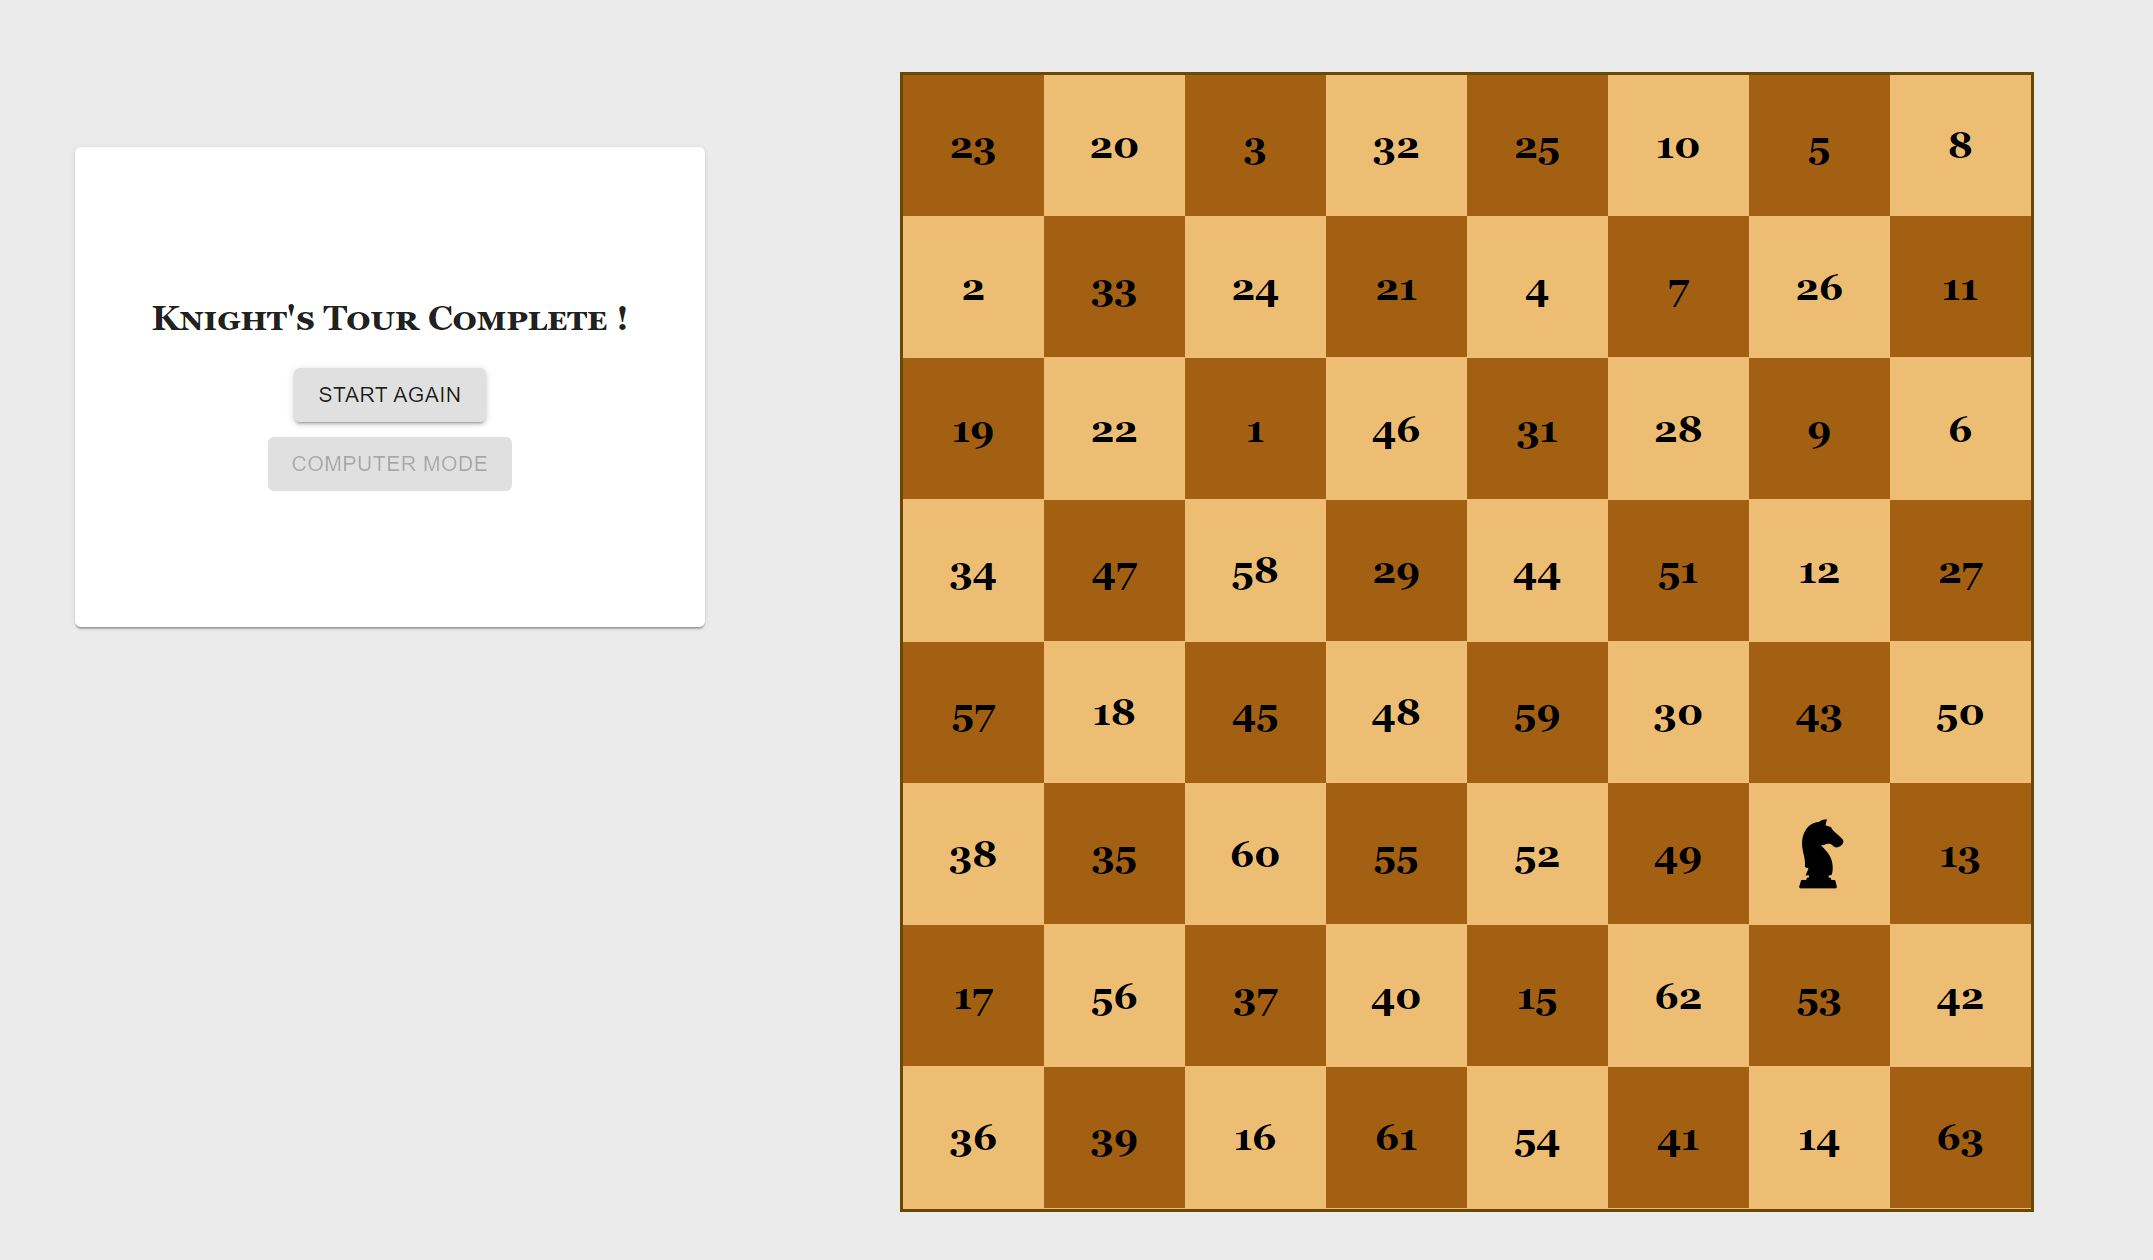
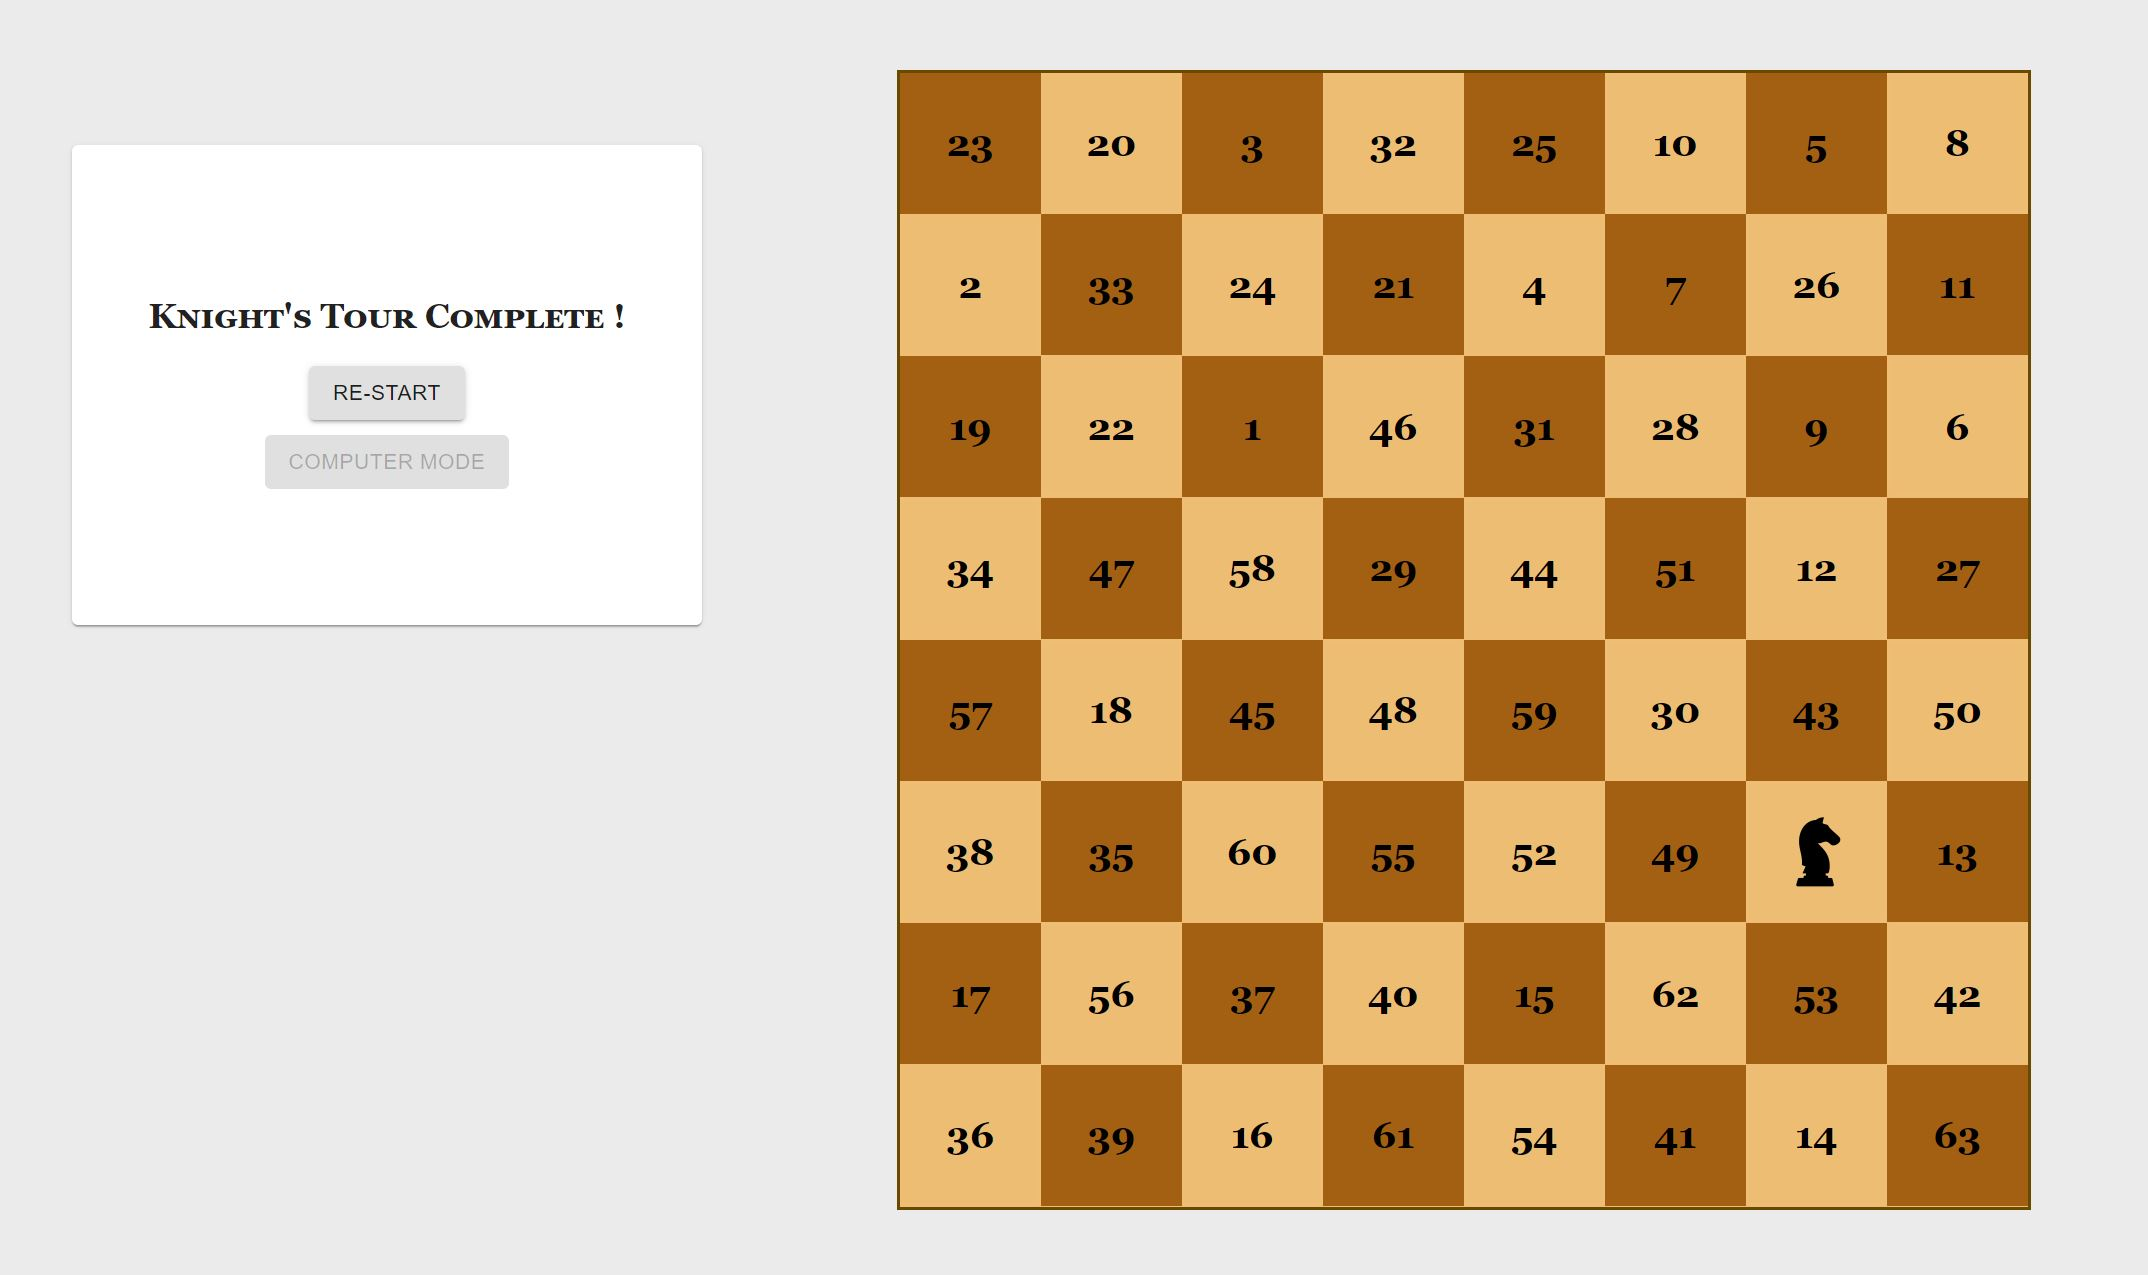
added next button functionality

diff --git a/src/App.js b/src/App.js
@@ -18,26 +18,28 @@ class App extends Component {
       isLoaded: false,
       squares: [],
       currentSquareId: "",
-      knightPathPos: 1
+      knightPathPos: 1,
+      stepMode: false,
+      tour: []
     };
   }
 
   // Function: Checks if the first move is yet to be made
-  // Used by: Square component to make all squares clickable
+  // Used by: Square Props to make all squares clickable
   isFirstMove = () => {
-    return(this.state.currentSquareId == "");
+    return(this.state.currentSquareId === "");
   }
 
   // Function: Checks if a starting square has been selected
   // Used by: Computer Mode Button to toggle disabled state
   isSecondMove = () =>{
-    return(this.state.knightPathPos == 2);
+    return(this.state.knightPathPos === 2);
   }
 
   // Function: Checks if knight is on the square with squareID 
-  // Used by: Square component to display knight image
+  // Used by: Square Props to display knight image
   isCurrentSquare = (squareID) =>{
-    return(squareID == this.state.currentSquareId);
+    return(squareID === this.state.currentSquareId);
   }
 
   // Function: Completes the knight's tour once a starting square is selected
@@ -47,20 +49,14 @@ class App extends Component {
     let visited = new Array(64); 
     for (let i=0; i<64; ++i) visited[i] = 0;
     let tour = getKnightTour(this.state.currentSquareId,path,visited).path;
-    let count = 1;
-    for (var squareID of tour) {
-      if(this.state.currentSquareId != squareID){
-        this.completePath(squareID, count);
-      }
-      count+=1;
-    }
-    this.setState({currentSquareId: tour[63], knightPathPos: 65});
+    this.setCurrentSquare(tour[1]);
+    this.setState({stepMode: true, tour: tour});
   }
 
   // Function: Marks a square as visited, and assigns its position in the tour.
   // Used by: computerMode() to display tour on board
   completePath = (squareID,count) =>{
-    let currentSquare = this.state.squares.find(currentSquare => currentSquare.id == squareID);
+    let currentSquare = this.state.squares.find(currentSquare => currentSquare.id === squareID);
     currentSquare.visited = true;
     currentSquare.pathPos = count;
   }
@@ -74,12 +70,12 @@ class App extends Component {
   // Function: Checks if there are any legal and unvisited moves based on knight's current position
   // Used by: Card component to display trapped message
   anyLegalMoves = () =>{
-    if (this.state.currentSquareId != ""){
+    if (this.state.currentSquareId !== ""){
       let legalMoves = generateLegalMoves(this.state.currentSquareId);
       let foundUnvisited = false;
       for (var move of legalMoves) {
         let moveId = move.x.toString() + move.y.toString();
-        let square = this.state.squares.find(square => square.id == moveId);
+        let square = this.state.squares.find(square => square.id === moveId);
         if (!square.visited){
           foundUnvisited = true;
           break;
@@ -91,15 +87,46 @@ class App extends Component {
     }
   }
 
+  // Function: moves to next square on completed tour
+  // Used by: Next button when clicked
+  handleNext = () =>{
+    let idx = this.state.knightPathPos - 1;
+    if (idx <= 63){
+      this.setCurrentSquare(this.state.tour[idx]);
+    }
+  }
+
+  // Funciton: returns conditionals for sqaure display and clickability
+  // Used by: Square Component
+  squareProps = (squareID) =>{
+    return({"isEnabled": this.isEnabled(), "isInitial" : this.isFirstMove(), "isCurrent": this.isCurrentSquare(squareID)});
+  }
+
+  // Function: checks if legal squares should be cliclkable
+  // Used by: Sqaure Props
+  isEnabled = () =>{
+    return((this.state.currentSquareId === "") || (!this.state.stepMode));
+  }
+
+  // Function: completes the tour on the board all at once
+  // Used by: Skip button when clicked
+  handleSkip = () =>{
+    for (let idx = this.state.knightPathPos - 1; idx < this.state.tour.length; idx++) {
+      this.completePath(this.state.tour[idx],idx + 1);
+    }
+    this.setState({currentSquareId: this.state.tour[63], knightPathPos: 65});
+  }
+
   // Function: Sets knight on square with currentId
   // Used by: Square component as a call back function when clicked
   setCurrentSquare = (currentId) =>{
     this.setState({currentSquareId: currentId});
-    let currentSquare = this.state.squares.find(currentSquare => currentSquare.id == currentId);
+    let currentSquare = this.state.squares.find(currentSquare => currentSquare.id === currentId);
     currentSquare.visited = true;
     currentSquare.pathPos = this.state.knightPathPos;
     let temp = this.state.knightPathPos + 1;
     this.setState({knightPathPos: temp});
+    console.log(this.state.knightPathPos, currentId);
   }
 
   // Function: Restarts the game
@@ -141,21 +168,25 @@ class App extends Component {
                   </div>):(
                   this.anyLegalMoves() ? <div>
                     <h1 className="cardHeader">The Knight's Tour</h1>
-                    <p className="cardText">The aim of the game is use the chess Knight's movements to visit each square on the board exactly once.</p>
+                    <p className="cardText">The aim of the game is to use the chess Knight's movements to visit each square on the board exactly once.</p>
                     <p className="cardText">(Select starting square to enable computer mode.)</p>
                   </div>:<div>
                   <h1 className="cardHeader">Oops...you're trapped!</h1>
                   </div>)}
-                  <div className="button"><Button variant="contained" onClick={this.reloadPage}>Start Again</Button></div>
+                  <div className="button"><Button variant="contained" onClick={this.reloadPage}>Re-Start</Button></div>
                   {this.isSecondMove() ? (
                     <div className="button"><Button variant="contained" onClick={this.computerMode}>Computer Mode</Button></div>
                   ):<div className="button"><Button variant="contained" disabled>Computer Mode</Button></div>}
+                  {this.state.stepMode && <div className="button">
+                    <Button variant="contained" onClick={this.handleNext} style={{marginRight:"5px"}}>Next</Button>
+                    <Button variant="contained" onClick={this.handleSkip} style={{marginLeft:"5px"}}>Skip</Button>
+                  </div>}
                 </div>
               </Card>
             </Grid>
             <Grid container className="Board" style={{ width: 756, height: 760}} spacing={0}>
             {this.state.squares.map((square) => (
-              <Square key={square.id} isInitial={this.isFirstMove()} isLegal={isLegalMove(square.i,square.j,this.state.currentSquareId)} squareData={square} isCurrent={this.isCurrentSquare(square.id)} parentCallBack={this.setCurrentSquare}/>
+              <Square key={square.id} isLegal={isLegalMove(square.i,square.j,this.state.currentSquareId)} squareProps={this.squareProps(square.id)} squareData={square} parentCallBack={this.setCurrentSquare}/>
             ))}
           </Grid>
           </Grid>

diff --git a/src/Components/Square.js b/src/Components/Square.js
@@ -12,25 +12,27 @@ export class Square extends Component {
     render() {
         return (
             <div>
-                {this.props.isInitial ? (
-                    (this.props.squareData.color == "white" ? (
+                {this.props.squareProps.isInitial ? (
+                    (this.props.squareData.color === "white" ? (
                     <div className={styles.whiteSquare} onClick={this.clickhandler}></div>
                 ):  <div className={styles.blackSquare} onClick={this.clickhandler}></div>
                 )):
                 (this.props.squareData.visited ? (
-                    (this.props.squareData.color == "white" ? (
+                    (this.props.squareData.color === "white" ? (
                     <div className={styles.whiteSquare} >
-                        {this.props.isCurrent ? (
+                        {this.props.squareProps.isCurrent ? (
                         <img src={ImSrc} width="50px" height="50px" alt="knight"/>
                         ):<div><p className={styles.pathPosition}>{this.props.squareData.pathPos}</p></div>}
                     </div>):<div className={styles.blackSquare} >
-                        {this.props.isCurrent ? (
+                        {this.props.squareProps.isCurrent ? (
                         <img src={ImSrc} width="50px" height="50px" alt="knight"/>
                         ):<div><p className={styles.pathPosition}>{this.props.squareData.pathPos}</p></div>}
                     </div>)): 
                 (this.props.isLegal ? (
-                    <div className={styles.legalSquare} onClick={this.clickhandler}></div>
-                ):(this.props.squareData.color == "white" ? (
+                    this.props.squareProps.isEnabled ? (
+                        <div className={styles.legalSquare} onClick={this.clickhandler}></div>
+                    ):(<div className={styles.legalSquare}></div>)
+                ):(this.props.squareData.color === "white" ? (
                     <div className={styles.whiteSquare} ></div>
                 ):  <div className={styles.blackSquare} ></div>
                 )))}

diff --git a/src/Functions/isLegalMove.js b/src/Functions/isLegalMove.js
@@ -7,7 +7,7 @@ function isLegalMove(i,j,currentId) {
     let currentJ = +currentCoordinate[1];
     var isLegal = false
     for (var offset  of moveOffsets) {
-        if ((i == currentI + offset.x) && (j == currentJ + offset.y)){
+        if ((i === currentI + offset.x) && (j === currentJ + offset.y)){
             isLegal = true;
             break;
         }

diff --git a/src/Functions/getKnightTour.js b/src/Functions/getKnightTour.js
@@ -24,7 +24,7 @@ function getKnightTour(currentId,path,visited) {
             let xyCoord = id.split("");
             let x = +xyCoord[0];
             let y = +xyCoord[1];
-            if (visited[(8*x)+y] == 0){
+            if (visited[(8*x)+y] === 0){
                 done = getKnightTour(id,path,visited).done
             }
             iter += 1;

diff --git a/src/App.css b/src/App.css
@@ -28,11 +28,11 @@
 }
 
 .cardText{
-    font: 17px Georgia, serif;
+  font: 17px Georgia, serif;
 }
 
 .cardHeader{
-    font: small-caps bold 23px Georgia, serif;
+  font: small-caps bold 23px Georgia, serif;
 }
 
 .button{
@@ -40,4 +40,8 @@
   justify-content: center;
   padding-top: 5px;
   padding-bottom: 5px;
+}
+
+.modeButton{
+  margin: 5px;
 }

diff --git a/src/Functions/getAvailability.js b/src/Functions/getAvailability.js
@@ -9,7 +9,7 @@ function getAvailability(id,visited) {
         let Coordinate = neighbour.id.split("");
         let i = +Coordinate[0];
         let j = +Coordinate[1];
-        if (visited[(8*i) + j] == 0){
+        if (visited[(8*i) + j] === 0){
             availability+=1;
         }
     }
